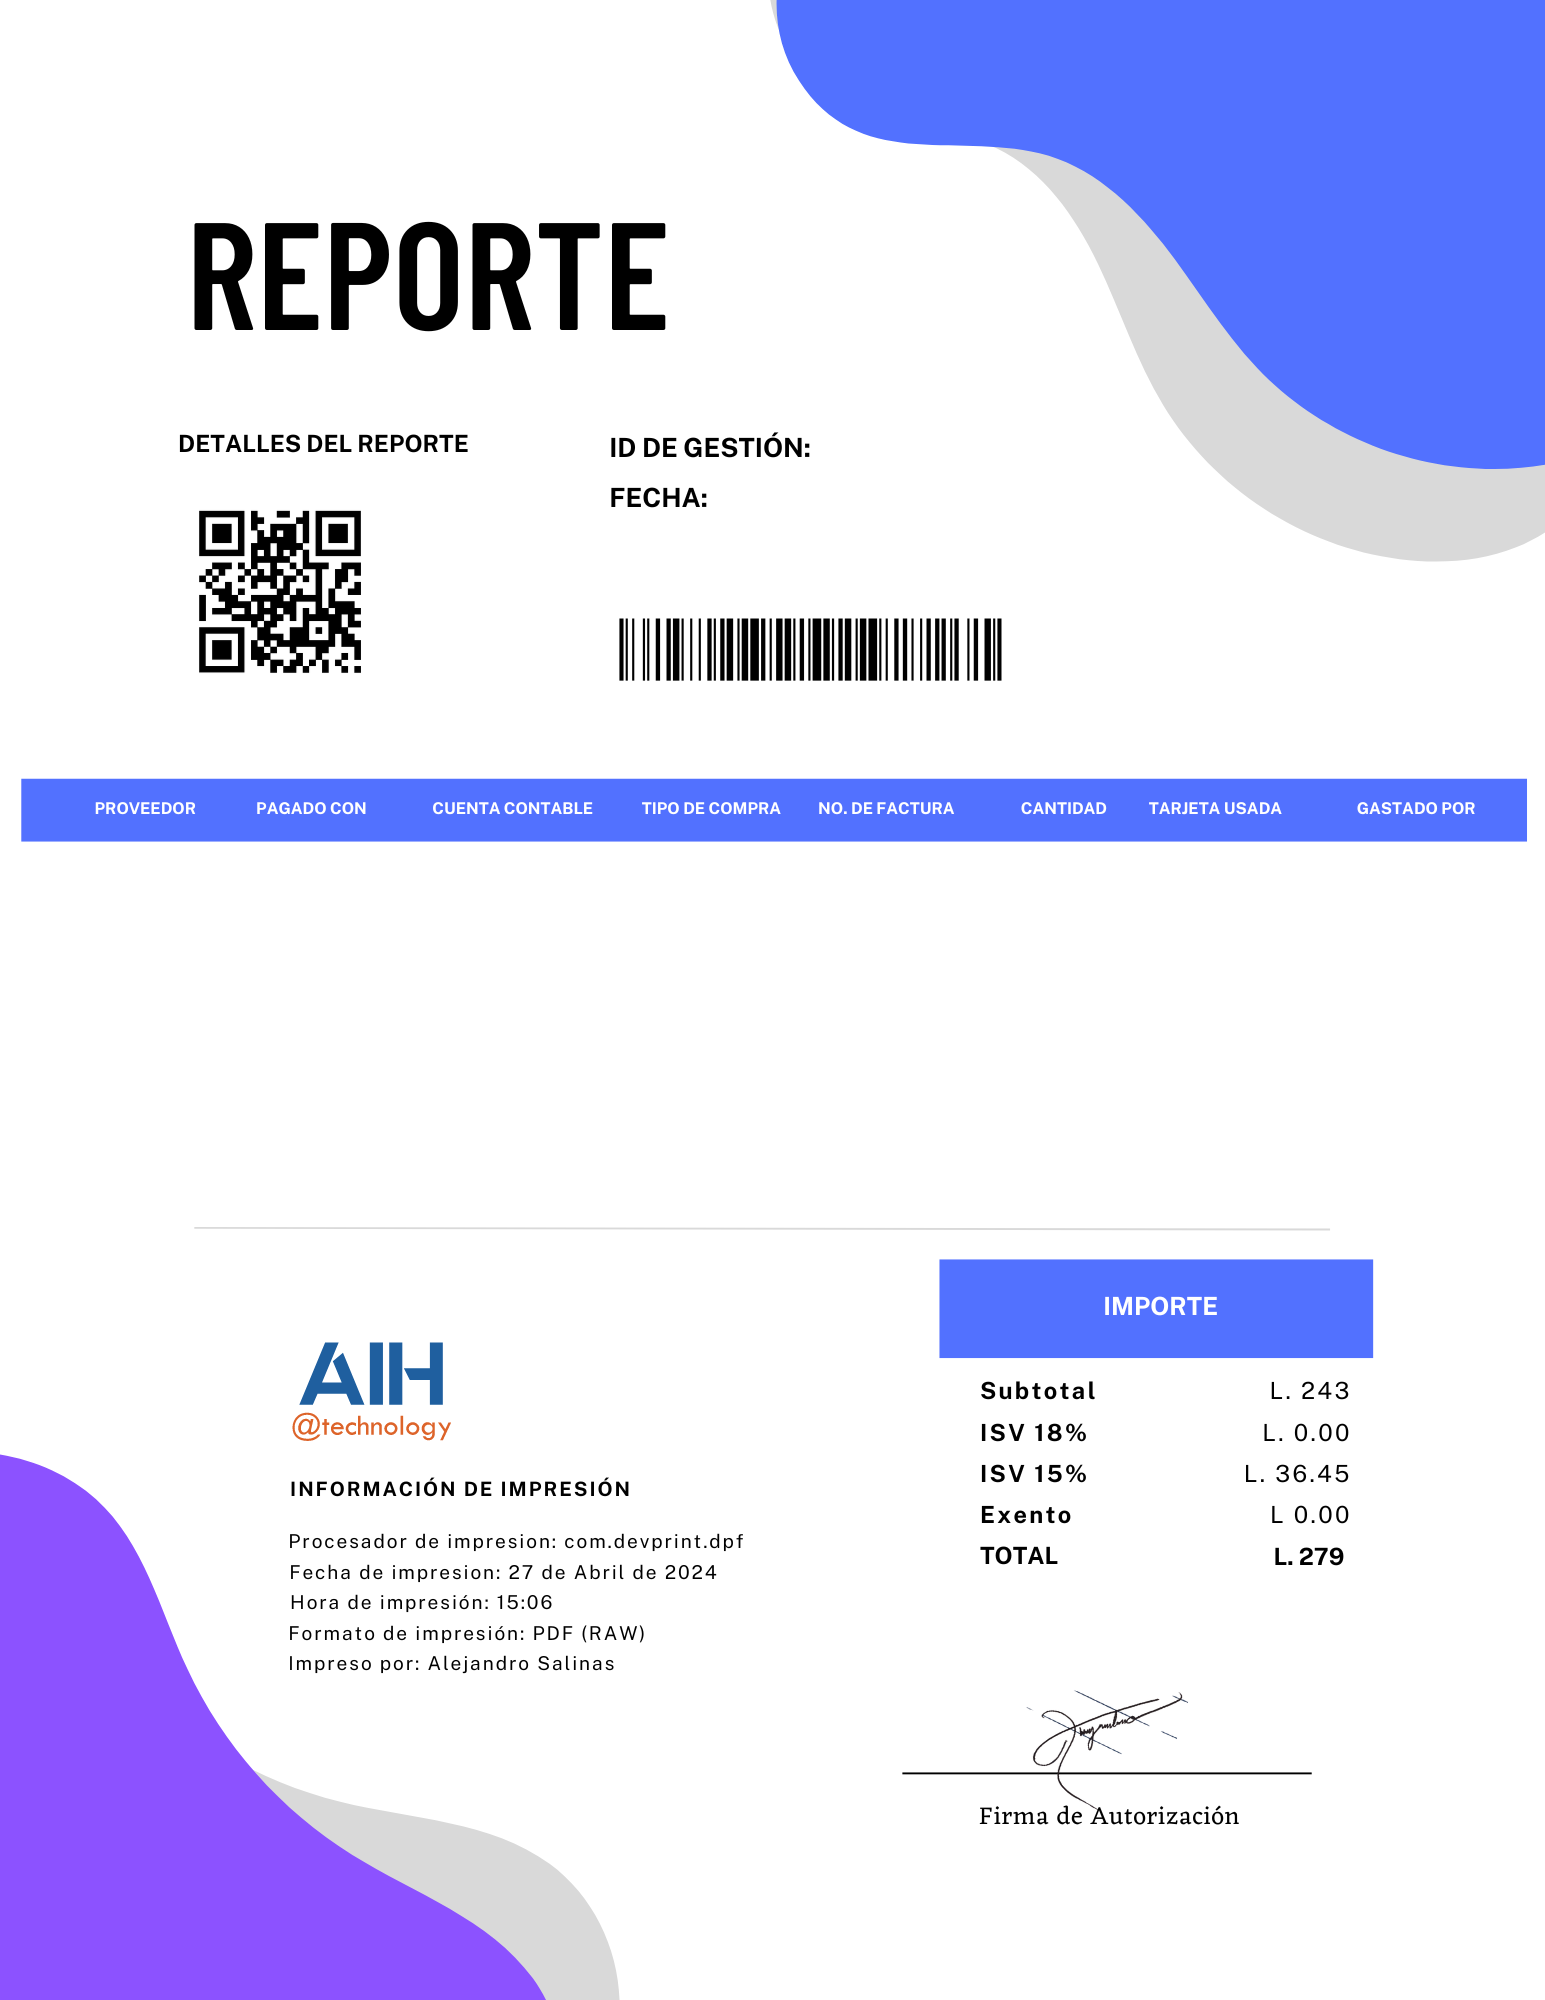
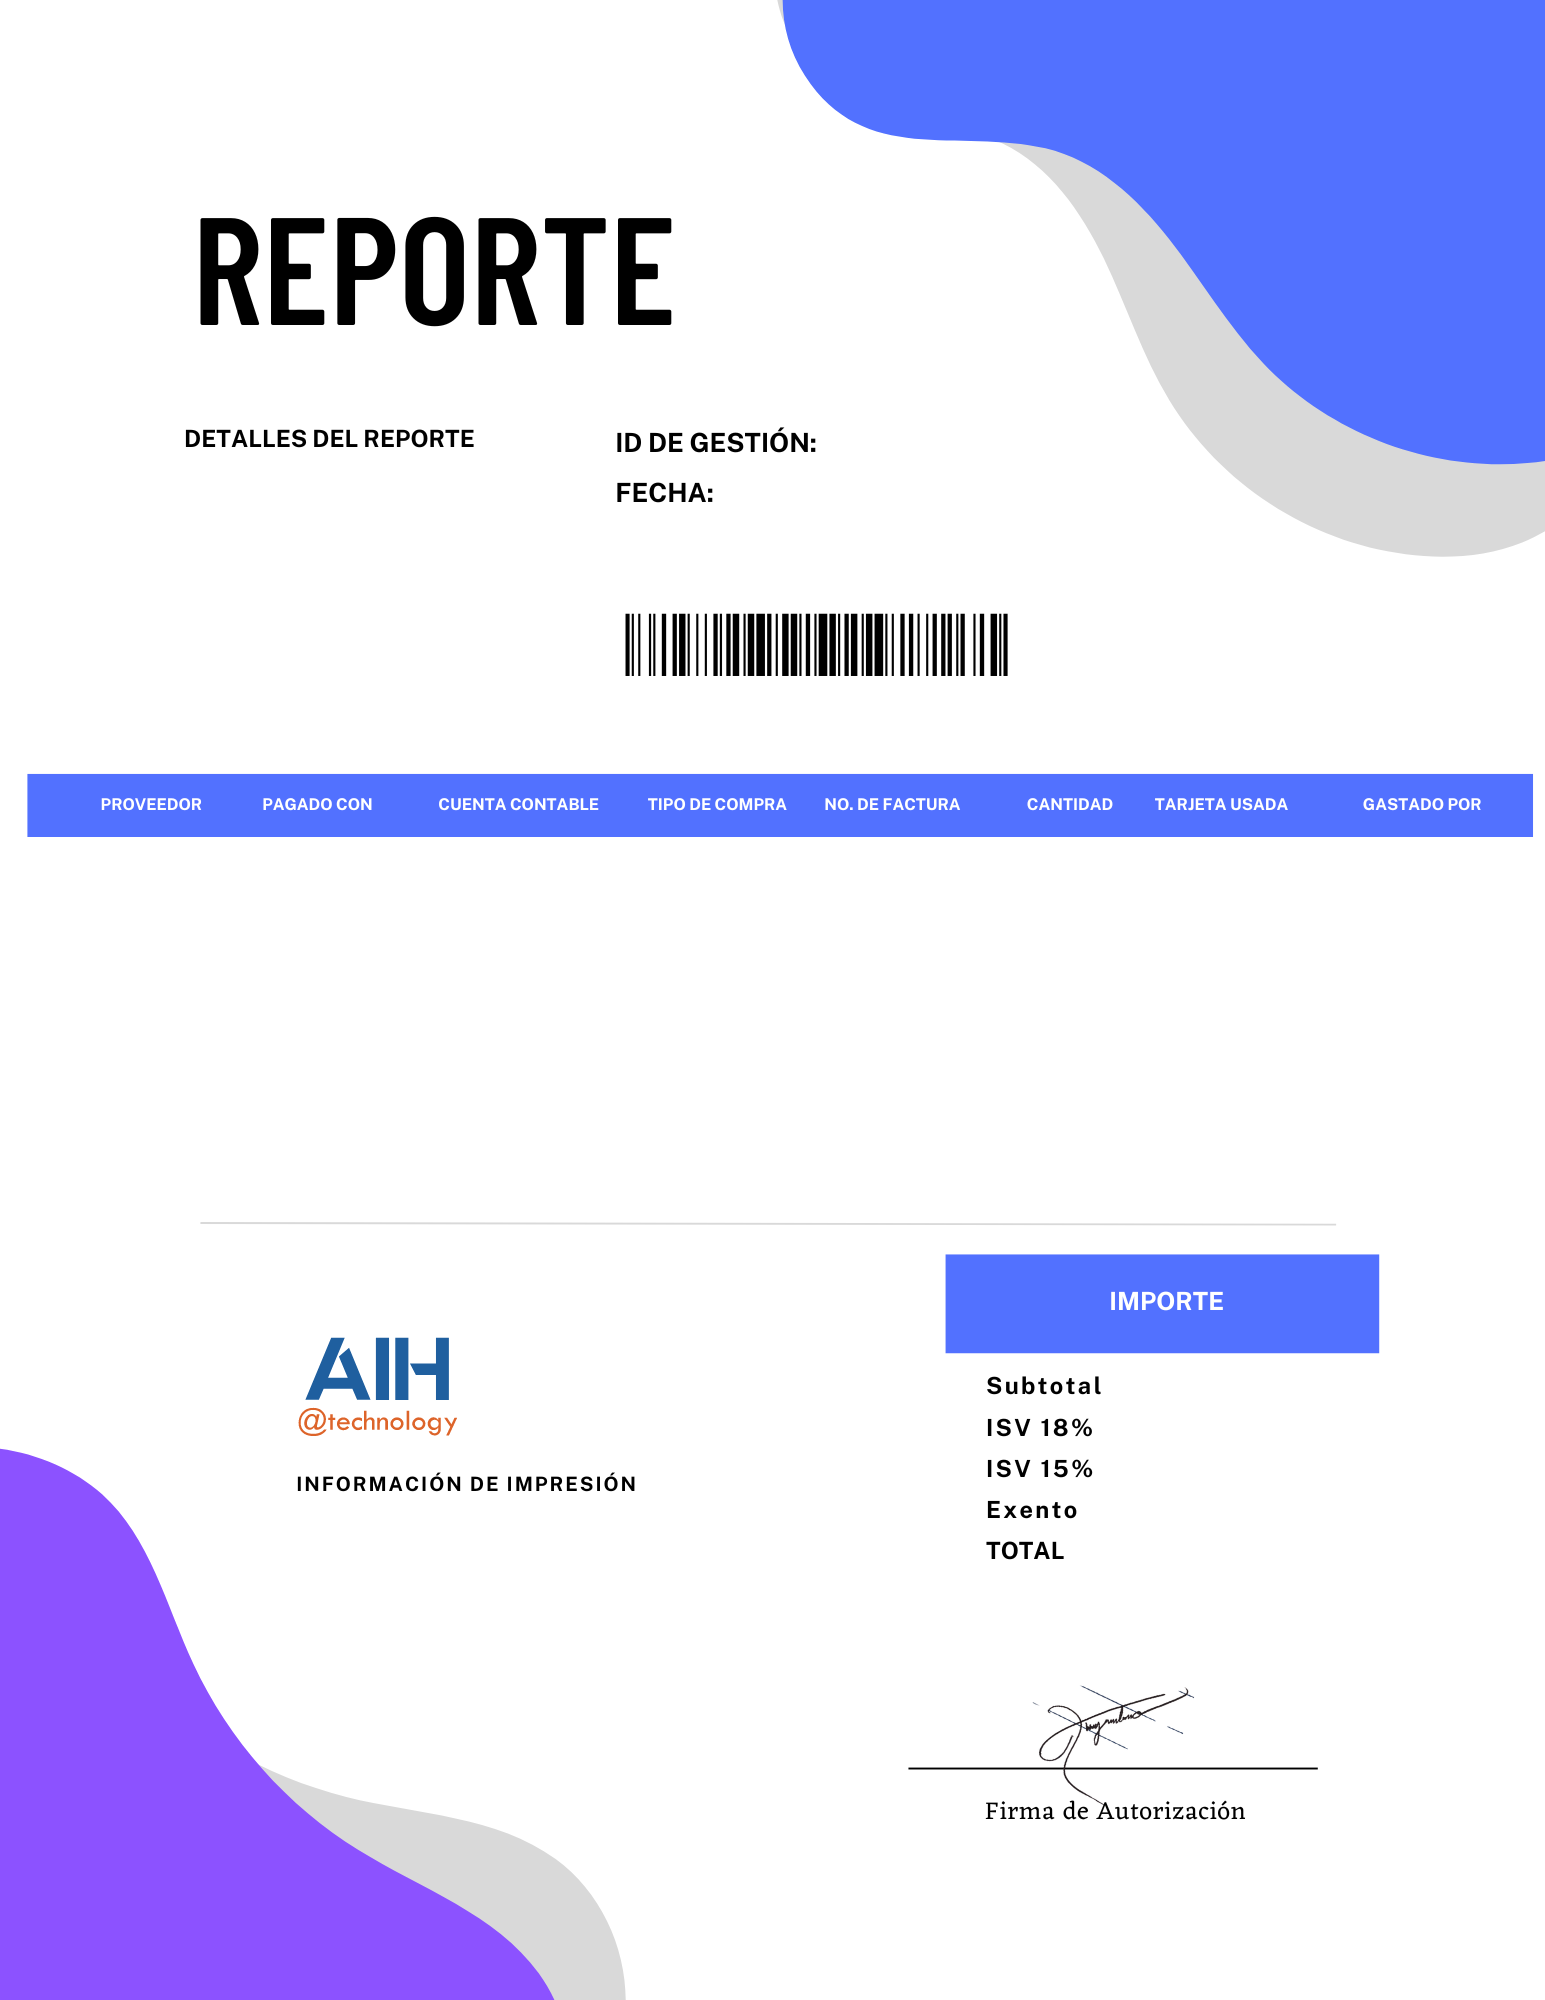
none

diff --git a/Spent/Print.php b/Spent/Print.php
@@ -32,17 +32,71 @@
 
         </div>
 
-        <t class="GestIDData">ASC-2024-202405019875</t>
-        <t class="Date">2024-05-13</t>
+        <?php
 
-        <div class="Provider">Little Caesars</div>
-        <div class="PayType">Tarjeta de crédito</div>
-        <div class="CountableCount">Alimentación</div>
-        <div class="BuyType">Personal</div>
-        <div class="BillID">000-001-01-01466628</div>
-        <div class="Amount">1</div>
-        <div class="CardUsed">8951</div>
-        <div class="SpendedBy">Alejandro Salinas</div>
+            if(isset($_GET["GestID"]) && isset($_GET["From"])){
+
+                $GetGestID = $_GET["GestID"];
+                $From = $_GET["From"];
+
+            }
+
+            require 'config/com.config.php';
+
+            $DoQuery = "SELECT * FROM logs WHERE GestID = '$GetGestID'";
+            $QueryResults = $Connection -> query($DoQuery);
+
+            if($QueryResults -> num_rows > 0){
+
+                $Row = $QueryResults -> fetch_assoc();
+
+                $Date = $Row["Date"];
+                $Provider = $Row["Provider"];
+                $PayType = $Row["PayType"];
+                $CountableCount = $Row["CountableCount"];
+                $BuyType = $Row["BuyType"];
+                $BillID = $Row["BillNumber"];
+                $Amount = $Row["Amount"];
+                $CardUsed = $Row["CardUsed"];
+                $SpendedBy = $Row["SpendedBy"];
+                $Subtotal = $Row["Subtotal"];
+                $ISV18 = $Row["ISV18"];
+                $ISV15 = $Row["ISV15"];
+                $Exempt = $Row["Exempt"];
+                $Total = $Row["Total"];
+
+                echo "
+
+                    <t class='GestIDData'>$GetGestID</t>
+                    <t class='Date'>$Date</t>
+                    
+                    <div class='Provider'>$Provider</div>
+                    <div class='PayType'>$PayType</div>
+                    <div class='CountableCount'>$CountableCount</div>
+                    <div class='BuyType'>$BuyType</div>
+                    <div class='BillID'>$BillID</div>
+                    <div class='Amount'>$Amount</div>
+                    <div class='CardUsed'>$CardUsed</div>
+                    <div class='SpendedBy'>$SpendedBy</div>
+                    
+                    <div class='Subtotal'>L. $Subtotal</div>
+                    <div class='ISV18'>$ISV18</div>
+                    <div class='ISV15'>$ISV15</div>
+                    <div class='Exempt'>$Exempt</div>
+                    <div class='Total'>$Total</div>
+                    
+                    <div class='PrintProcessor'>Procesador de impresion: com.devprint.dpf</div>
+                    <div class='PrintDate'>Fecha de impresion: 27 de Abril de 2024</div>
+                    <div class='PrintHour'>Hora de impresión: 15:06</div>
+                    <div class='PrintFormat'>Formato de impresión: PDF (RAW)</div>
+                    <div class='PrintedBy'>Impreso por: $From</div>
+                
+                
+                ";
+
+            }
+
+        ?>
 
     </div>
 
